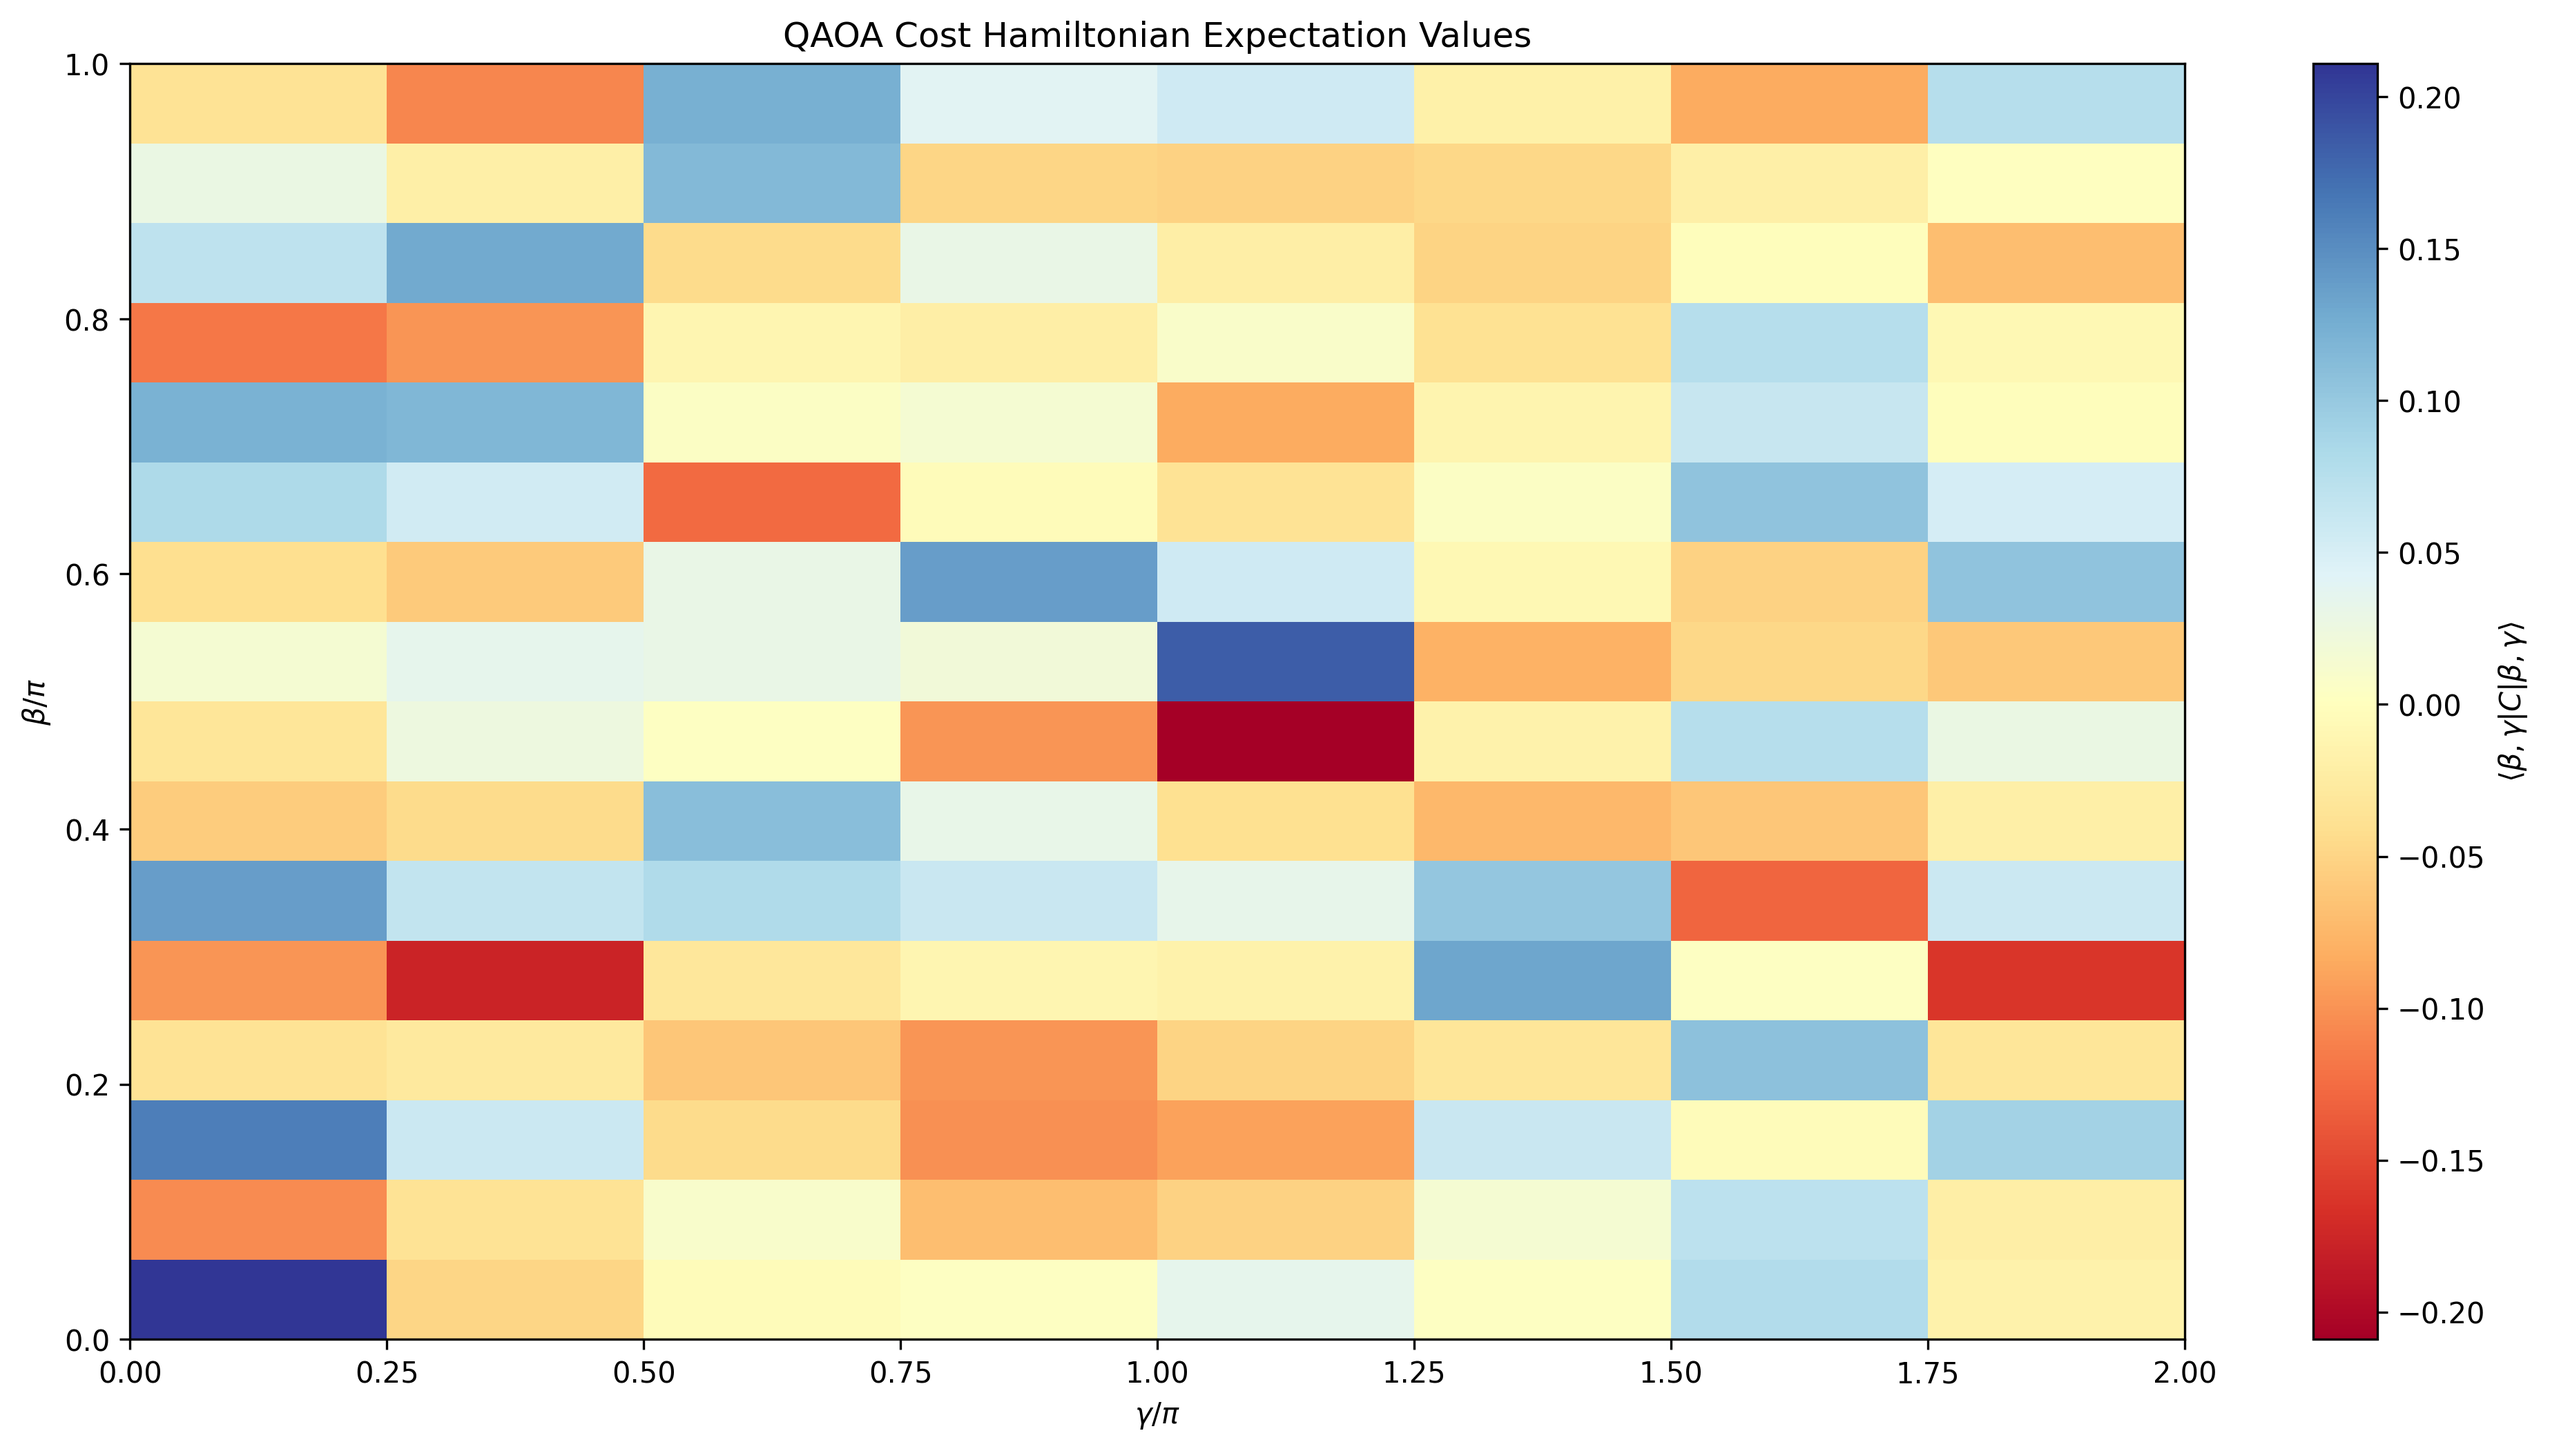
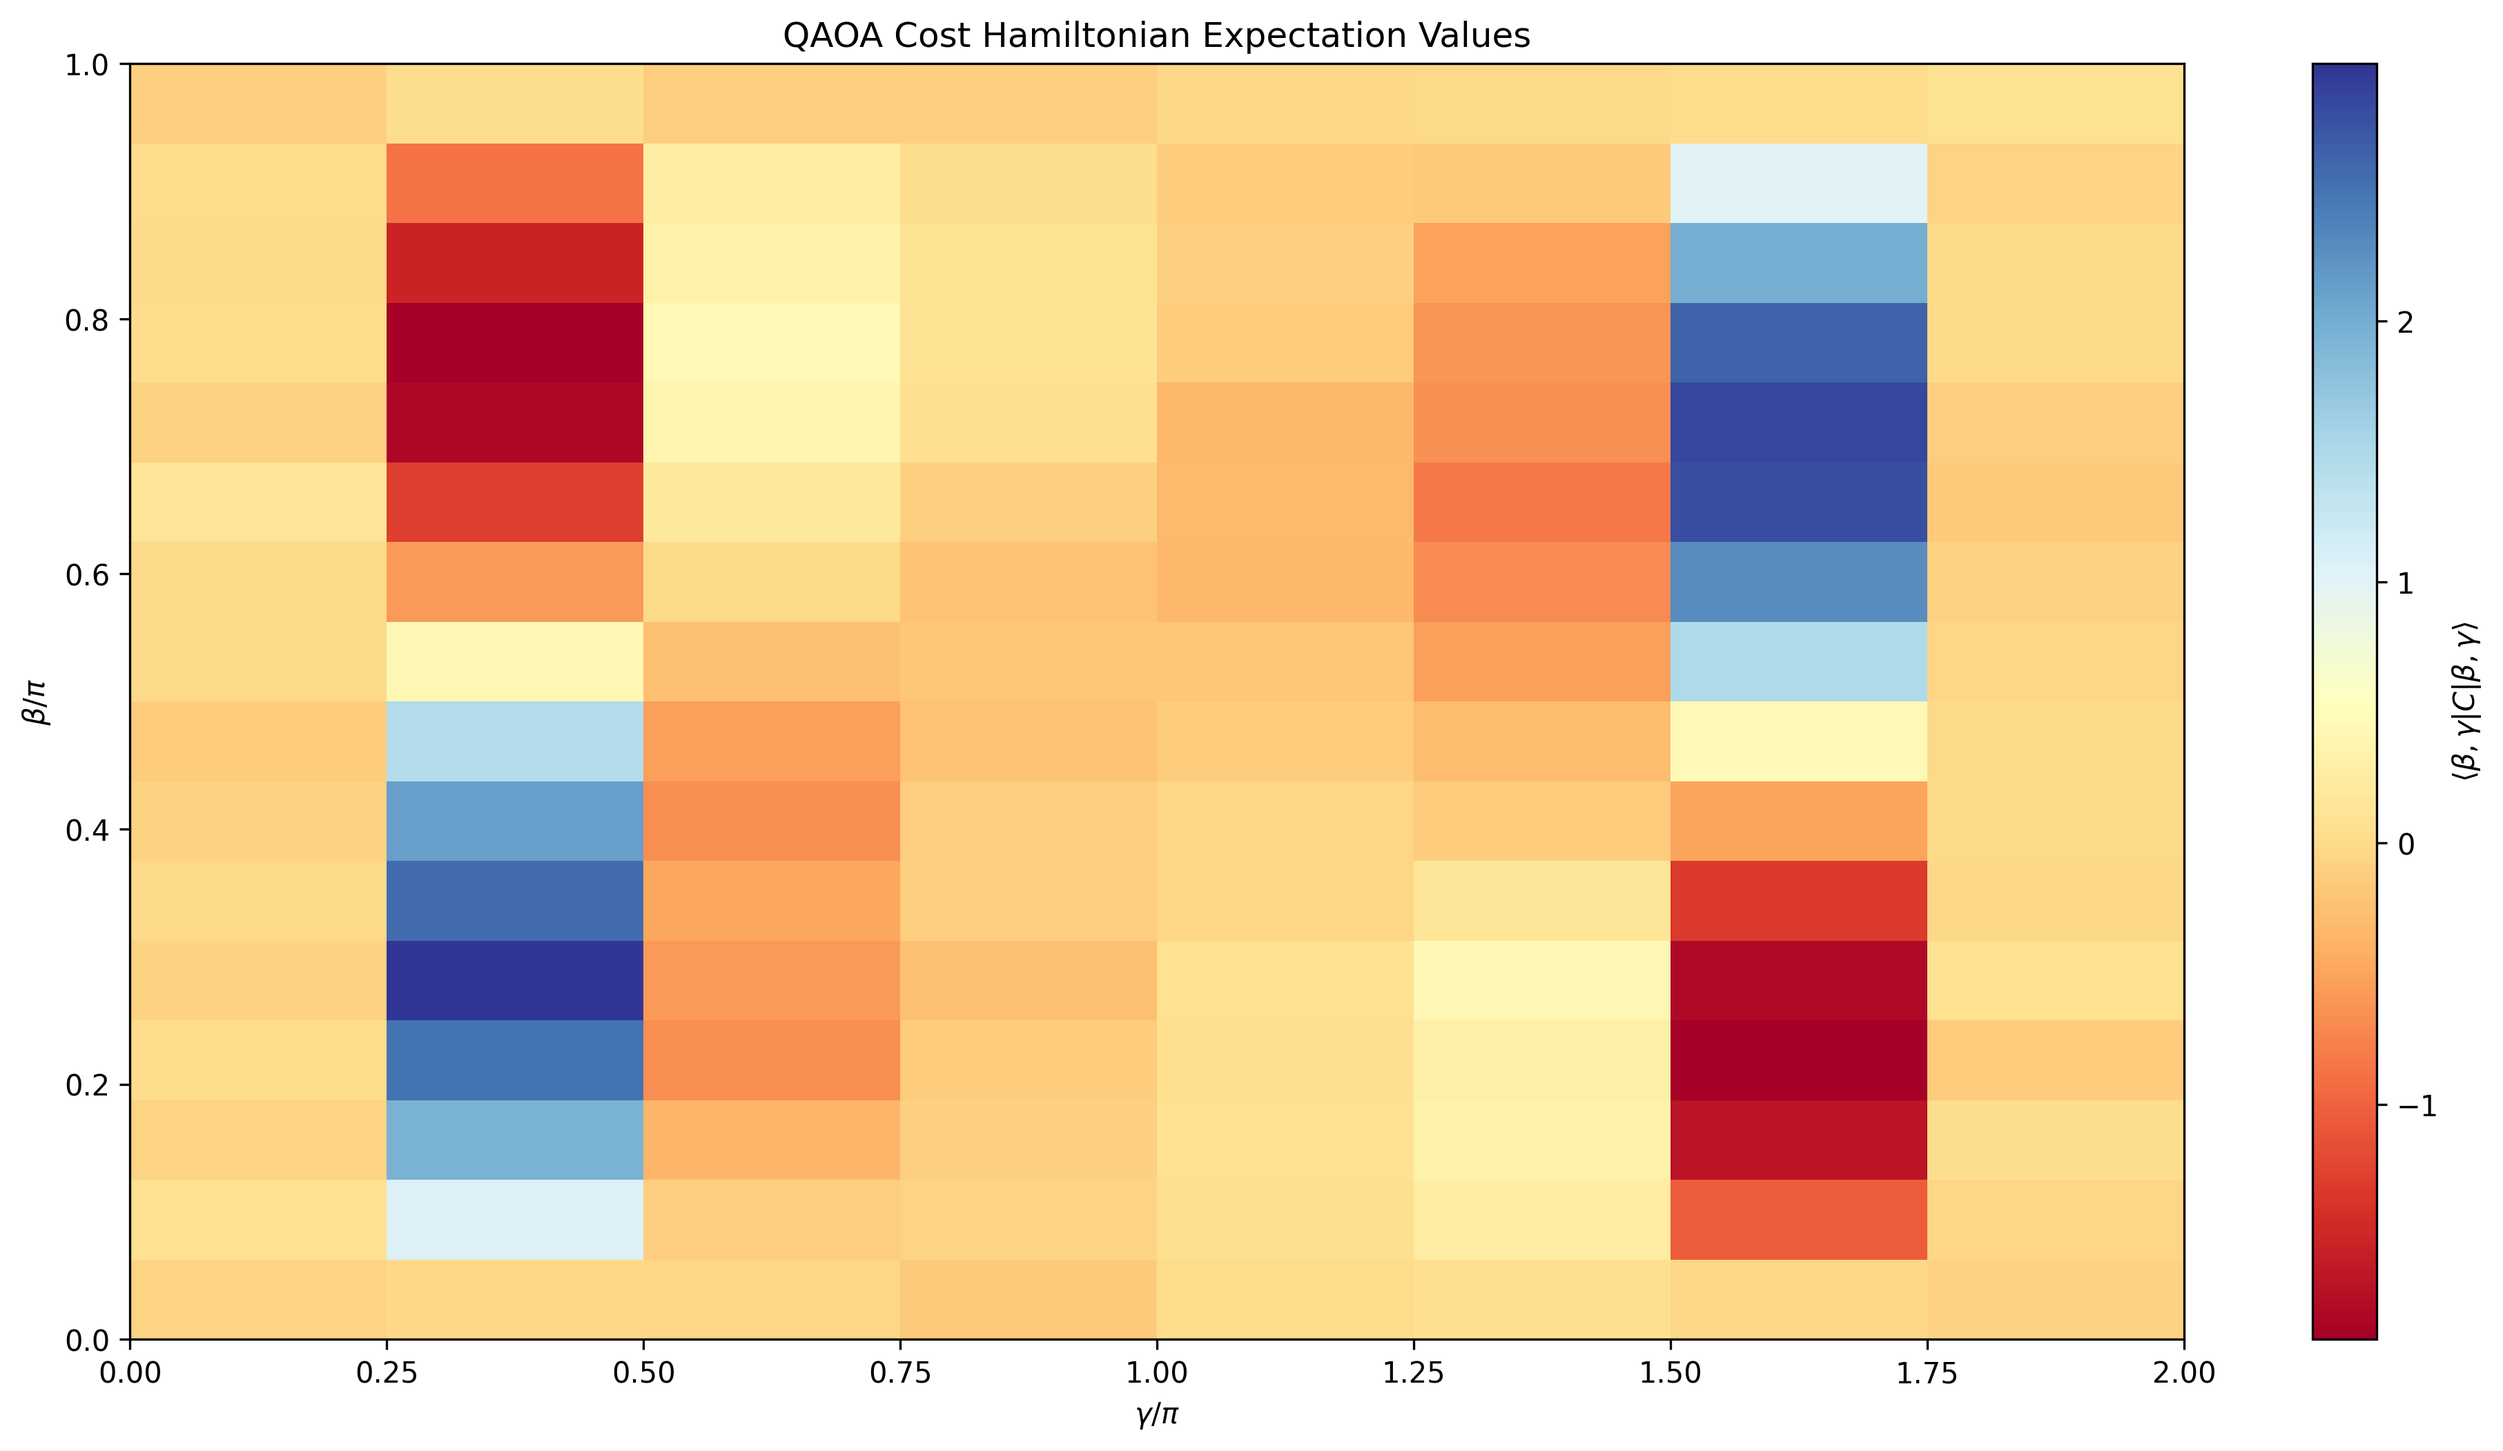
Update code

diff --git a/src/sampler_run.py b/src/sampler_run.py
@@ -1,20 +1,26 @@
+from itertools import product
+
+from qiskit.circuit.library import QAOAAnsatz
 from qiskit_aer import AerSimulator
-from src.qaoa_circuit import qaoa_circuit
+from qaoa_circuit import qaoa_circuit
 from qiskit_ibm_runtime import SamplerV2 as Sampler
 import numpy as np
 from qiskit_aer.noise import NoiseModel, depolarizing_error
-def calculate_state_cost(bitstring, adj_matrix):
-    """Calculate the cost for a specific bitstring state."""
-    n = len(adj_matrix)
+
+
+def calculate_state_cost(bitstring, G):
+    """
+    Calculate the cost for a specific bitstring state using a NetworkX graph G.
+    Assumes nodes are labeled 0, 1, ..., n-1.
+    """
     cost = 0
     state = [int(bit) for bit in bitstring]
-
+    # Convert state bits to z-values: bit 0 -> +1 and bit 1 -> -1.
     z_values = [1 - 2 * bit for bit in state]
 
-    for i in range(n):
-        for j in range(i + 1, n):
-            if adj_matrix[i][j] == 1:
-                cost += z_values[i] * z_values[j]
+    # For each edge in the graph, multiply the corresponding z-values.
+    for i, j in G.edges():
+        cost += z_values[i] * z_values[j]
 
     return cost
 
@@ -32,20 +38,30 @@ def calculate_expectation_value(counts, adj_matrix):
 def sampler_run(beta_values, gamma_values , n_qubits, cost_hamiltonian, adj_matrix):
     noise_model = NoiseModel()
 
-    single_qubit_error = depolarizing_error(0.8, 1)
-    two_qubit_error = depolarizing_error(0.8, 2)
-
-    noise_model.add_all_qubit_quantum_error(single_qubit_error, ["h", "rx", "rz"])
-    noise_model.add_all_qubit_quantum_error(two_qubit_error, ["cx", "rzz"])
-    simulator = AerSimulator(noise_model=noise_model)
-    sampler = Sampler(mode=simulator)
+    # single_qubit_error = depolarizing_error(0.8, 1)
+    # two_qubit_error = depolarizing_error(0.8, 2)
+    #
+    # noise_model.add_all_qubit_quantum_error(single_qubit_error, ["h", "rx", "rz"])
+    # noise_model.add_all_qubit_quantum_error(two_qubit_error, ["cx", "rzz"])
+    simulator = AerSimulator()
     expectation_values = np.zeros((len(beta_values), len(gamma_values)))
-    for i, beta in enumerate(beta_values):
-        for j, gamma in enumerate(gamma_values):
+    # simulator = AerSimulator(noise_model=noise_model)
+    sampler = Sampler(mode=simulator)
+    circuits = []
+
+    for beta in beta_values:
+        for gamma in gamma_values:
             qc = qaoa_circuit(beta, gamma, n_qubits, cost_hamiltonian)
             qc.measure_all()
-            result = sampler.run([qc]).result()
-            counts = result[0].data.meas.get_counts()
+            circuits.append(qc)
+            #expectation_values[i, j] = calculate_expectation_value(counts, adj_matrix)
+    result = sampler.run(circuits).result()
+    print(result)
+    cnt = 0
+    for i in range(0,len(beta_values)):
+        for j in range(0,len(gamma_values)):
+            counts = result[cnt].data.meas.get_counts()
+            cnt += 1
             expectation_values[i, j] = calculate_expectation_value(counts, adj_matrix)
 
     return expectation_values

diff --git a/src/main.py b/src/main.py
@@ -1,11 +1,12 @@
 import numpy as np
 
-from src.calculate_best_cut import calculate_best_cut
-from src.cost_hamiltonian import create_cost_hamiltonian
-from src.energy_histogram import generate_energy_histogram
-from src.estimator_run import estimator_run
-from src.generate_chart import generate_heatmap
-from src.sampler_run import sampler_run
+from calculate_best_cut import calculate_best_cut
+from cost_hamiltonian import create_cost_hamiltonian
+from energy_histogram import generate_energy_histogram
+from estimator_run import estimator_run
+from generate_chart import generate_heatmap
+from sampler_run import sampler_run
+import networkx as nx
 
 def read_edge_list(file_path):
     """
@@ -22,19 +23,20 @@ def read_edge_list(file_path):
     for u, v in edges:
         adjacency_matrix[u][v] = 1
         adjacency_matrix[v][u] = 1  # Since the graph is undirected
-
-    return adjacency_matrix
+    graph_np = np.array(adjacency_matrix)
+    graph = nx.from_numpy_array(graph_np)
+    return graph
 file_path = 'input/graph.txt'  # Update this to your file path
-adj_matrix = read_edge_list(file_path)
-n_qubits = len(adj_matrix)
+graph = read_edge_list(file_path)
+n_qubits = len(graph)
 beta_values = np.linspace(0, np.pi/2, 16)
 gamma_values = np.linspace(0, np.pi, 8)
-cost_hamiltonian = create_cost_hamiltonian(adj_matrix)
+cost_hamiltonian = create_cost_hamiltonian(graph)
 
 ''"run by sampler'"
-expectation_values = sampler_run(beta_values, gamma_values , n_qubits, cost_hamiltonian, adj_matrix)
+expectation_values = sampler_run(beta_values, gamma_values , n_qubits, cost_hamiltonian, graph)
 ''"run by estimator'"
 #expectation_values = estimator_run(beta_values, gamma_values , n_qubits, cost_hamiltonian)
 generate_heatmap(expectation_values)
-optimal_beta, optimal_gamma = calculate_best_cut(expectation_values, beta_values, gamma_values, cost_hamiltonian, adj_matrix)
-generate_energy_histogram(optimal_beta, optimal_gamma, n_qubits, cost_hamiltonian, adj_matrix)
+optimal_beta, optimal_gamma = calculate_best_cut(expectation_values, beta_values, gamma_values, cost_hamiltonian, graph)
+generate_energy_histogram(optimal_beta, optimal_gamma, n_qubits, cost_hamiltonian, graph)

diff --git a/src/calculate_best_cut.py b/src/calculate_best_cut.py
@@ -1,7 +1,7 @@
 from qiskit_aer import AerSimulator
-from src.qaoa_circuit import qaoa_circuit
+from qaoa_circuit import qaoa_circuit
 import numpy as np
-from src.generate_chart import generate_distribution
+from generate_chart import generate_distribution
 
 
 def calculate_best_cut(expectation_values, beta_values, gamma_values, cost_hamiltonian, adj_matrix,
@@ -25,13 +25,13 @@ def calculate_best_cut(expectation_values, beta_values, gamma_values, cost_hamil
         best_bitstring = max(counts, key=counts.get)
         f.write(f"Best bitstring: {best_bitstring}\n")
 
-        def calculate_cut_value(bitstring, adj_matrix):
-            """Calculate the Max-Cut value for a given bitstring."""
+        def calculate_cut_value(bitstring, G):
             cut_value = 0
-            for i in range(len(adj_matrix)):
-                for j in range(i + 1, len(adj_matrix)):
-                    if adj_matrix[i][j] == 1 and bitstring[i] != bitstring[j]:
-                        cut_value += 1
+            # Iterate over each edge in the graph
+            for i, j in G.edges():
+                # If the bits for the connected nodes differ, increment the cut value.
+                if bitstring[i] != bitstring[j]:
+                    cut_value += 1
             return cut_value
 
         best_cut_value = calculate_cut_value(best_bitstring, adj_matrix)

diff --git a/src/cost_hamiltonian.py b/src/cost_hamiltonian.py
@@ -1,17 +1,14 @@
 from qiskit.quantum_info import SparsePauliOp
 
-def create_cost_hamiltonian(adj_matrix):
-    n = len(adj_matrix)
+def create_cost_hamiltonian(G):
+    nodes = list(G.nodes())
+    index_map = {node: idx for idx, node in enumerate(nodes)}
+    n = len(nodes)
     terms = []
-    coeffs = []
-    for i in range(n):
-        for j in range(i + 1, n):
-            if adj_matrix[i][j] == 1:
-                z_i = ["I"] * n
-                z_i[i] = "Z"
-                z_i[j] = "Z"
-
-                terms.append(("".join(z_i[::-1]), 1.0))
-                coeffs.append(1.0)
-
+    for u, v in G.edges():
+        pauli_list = ["I"] * n
+        pauli_list[index_map[u]] = "Z"
+        pauli_list[index_map[v]] = "Z"
+        pauli_str = "".join(pauli_list[::-1])
+        terms.append((pauli_str, 1.0))
     return SparsePauliOp.from_list(terms)

diff --git a/src/energy_histogram.py b/src/energy_histogram.py
@@ -4,16 +4,16 @@ import matplotlib.pyplot as plt
 import numpy as np
 from qiskit_aer import AerSimulator
 
-from src.qaoa_circuit import qaoa_circuit
+from qaoa_circuit import qaoa_circuit
 
 
-def calculate_cut_value(bitstring, adj_matrix):
-    """Calculate the Max-Cut value for a given bitstring."""
+def calculate_cut_value(bitstring, G):
     cut_value = 0
-    for i in range(len(adj_matrix)):
-        for j in range(i + 1, len(adj_matrix)):
-            if adj_matrix[i][j] == 1 and bitstring[i] != bitstring[j]:
-                cut_value -= 1
+    # Iterate over each edge in the graph
+    for i, j in G.edges():
+        # If the bits for the connected nodes differ, increment the cut value.
+        if bitstring[i] != bitstring[j]:
+            cut_value -= 1
     return cut_value
 
 

diff --git a/src/qaoa_circuit.py b/src/qaoa_circuit.py
@@ -5,6 +5,7 @@ def qaoa_circuit(beta, gamma, n_qubits, cost_hamiltonian):
     circuit = QuantumCircuit(n_qubits)
     circuit.h(range(n_qubits))
     for pauli, coeff in zip(cost_hamiltonian.paulis, cost_hamiltonian.coeffs):
+        print(pauli, coeff)
         qubits = [i for i, p in enumerate(pauli.to_label()) if p == "Z"]
         if len(qubits) == 2:
             circuit.rzz(2 * gamma * coeff.real, qubits[0], qubits[1])

diff --git a/src/estimator_run.py b/src/estimator_run.py
@@ -1,5 +1,5 @@
 from qiskit_aer import AerSimulator
-from src.qaoa_circuit import qaoa_circuit
+from qaoa_circuit import qaoa_circuit
 from qiskit.primitives import Estimator
 import numpy as np
 
